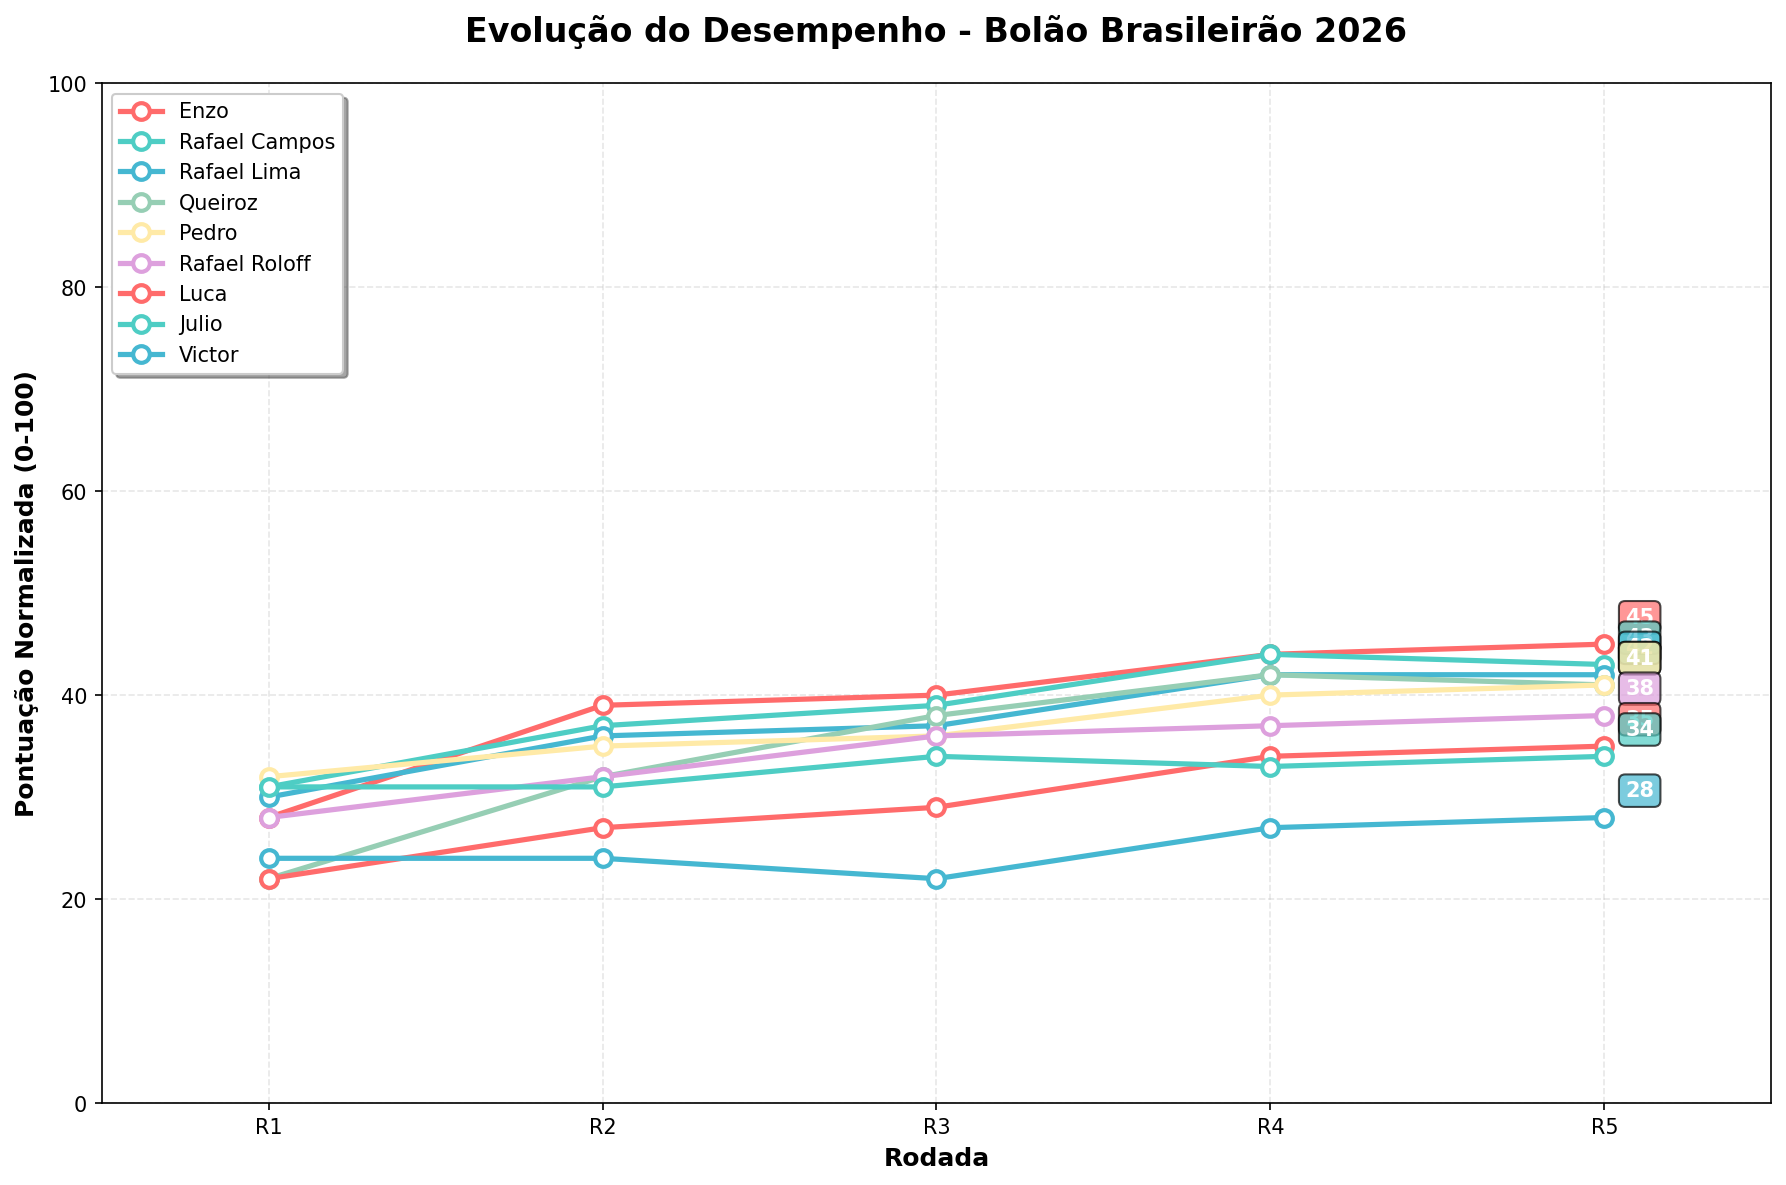
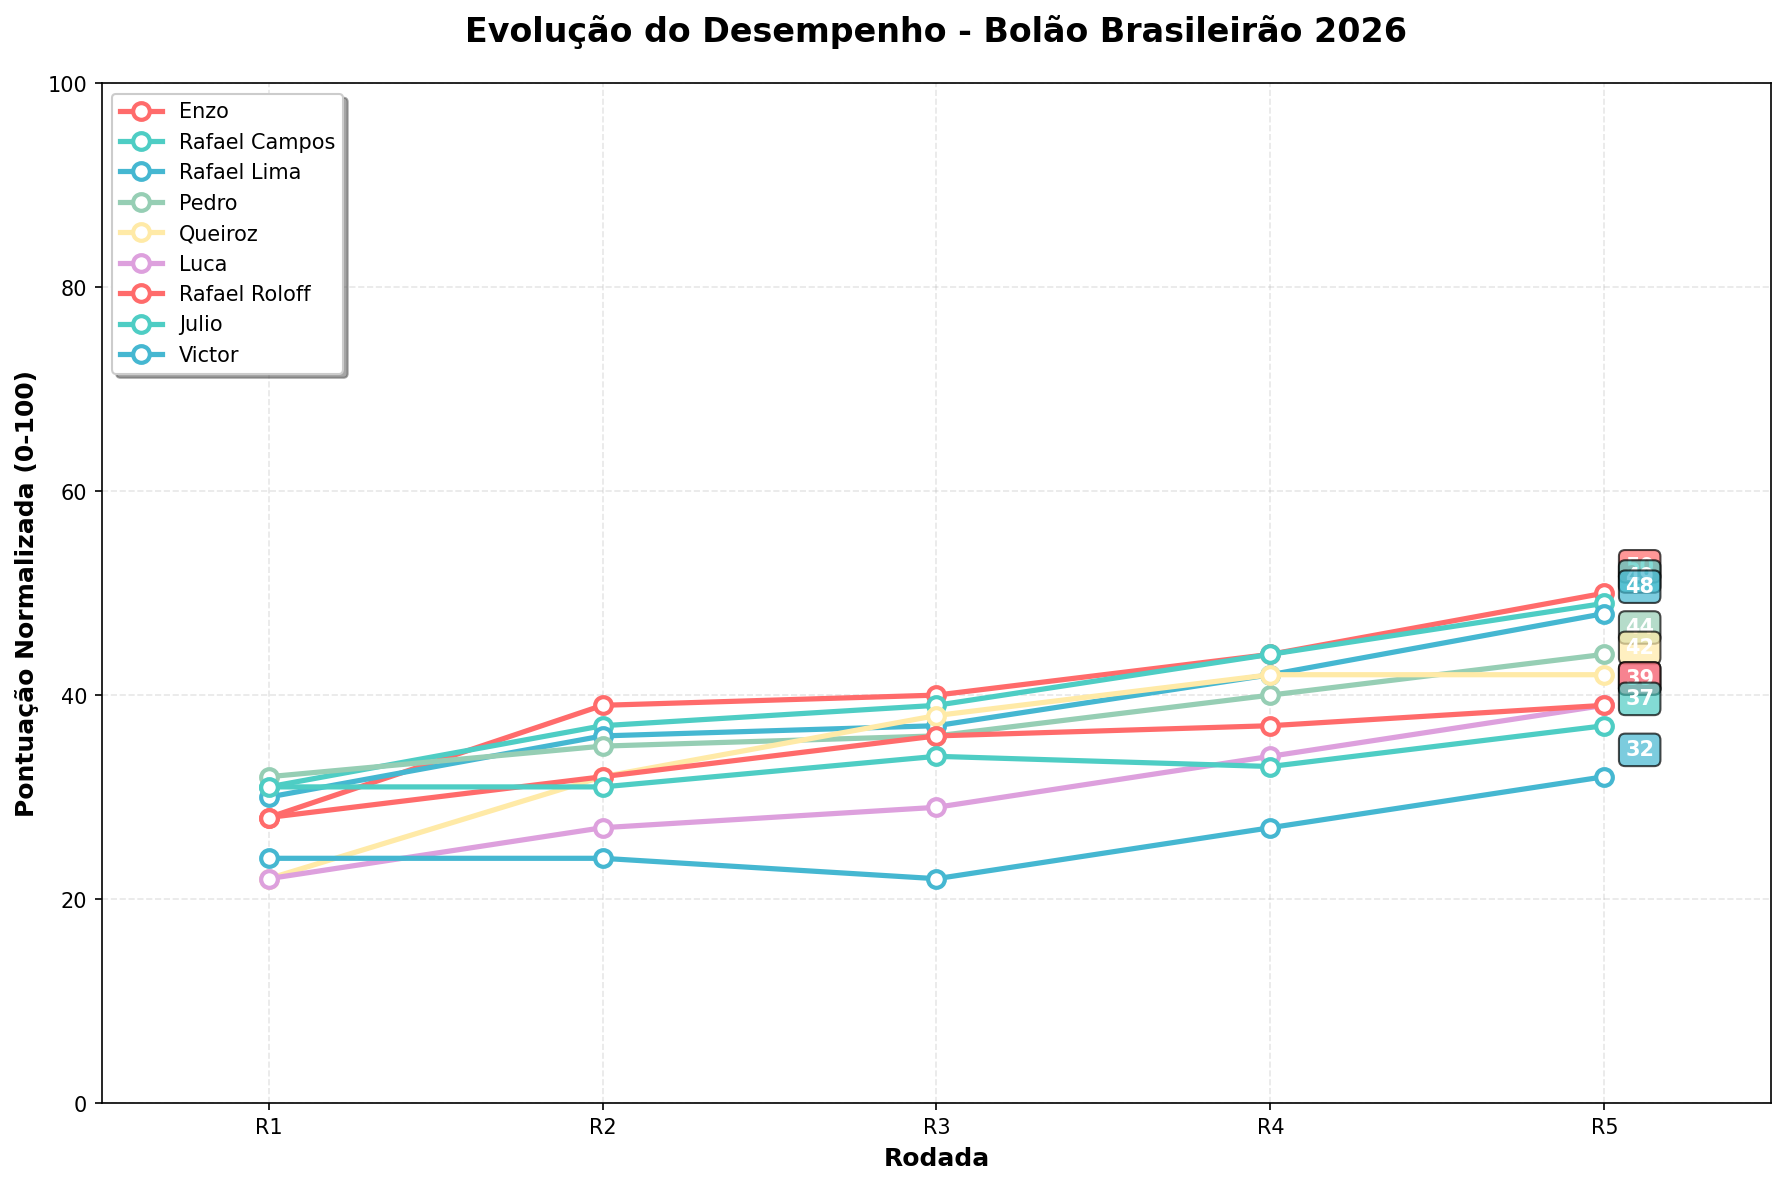
Atualizacao automatica - 13/03/2026 11:00:04,29

Changed region(s): [[0.154, 0.4684, 0.9546, 0.7181], [0.0924, 0.1561, 0.1848, 0.2498], [0.154, 0.7181, 0.2156, 0.7494]]

diff --git a/README.md b/README.md
@@ -2,66 +2,66 @@
 
 ## 🏆 Resultados Atuais
 
-**Última Atualização:** 2026-03-11 11:00:04
+**Última Atualização:** 2026-03-13 11:00:03
 
-| Time | Real | Enzo | Rafael Campos | Rafael Lima | Queiroz | Pedro | Rafael Roloff | Luca | Julio | Victor |
+| Time | Real | Enzo | Rafael Campos | Rafael Lima | Pedro | Queiroz | Luca | Rafael Roloff | Julio | Victor |
 |------|------|------|------|------|------|------|------|------|------|------|
-| Palmeiras | 1 | 2°(19p) | 3°(18p) | 3°(18p) | 3°(18p) | 3°(18p) | 2°(19p) | 3°(18p) | 2°(19p) | 3°(18p) |
-| São Paulo | 2 | 16°(6p) | 12°(10p) | 14°(8p) | 17°(5p) | 15°(7p) | 16°(6p) | 14°(8p) | 15°(7p) | 16°(6p) |
-| Corinthians | 3 | 8°(15p) | 8°(15p) | 9°(14p) | 6°(17p) | 8°(15p) | 5°(18p) | 10°(13p) | 9°(14p) | 8°(15p) |
-| Bahia | 4 | 5°(19p) | 4°(20p) | 4°(20p) | 4°(20p) | 7°(17p) | 6°(18p) | 5°(19p) | 5°(19p) | 9°(15p) |
-| Fluminense | 5 | 4°(19p) | 7°(18p) | 6°(19p) | 7°(18p) | 4°(19p) | 8°(17p) | 8°(17p) | 7°(18p) | 10°(15p) |
-| Atlético-PR | 6 | 17°(9p) | 17°(9p) | 17°(9p) | 15°(11p) | 18°(8p) | 17°(9p) | 17°(9p) | 17°(9p) | 13°(13p) |
-| Bragantino | 7 | 6°(19p) | 10°(17p) | 10°(17p) | 18°(9p) | 9°(18p) | 13°(14p) | 13°(14p) | 10°(17p) | 15°(12p) |
-| Grêmio | 8 | 7°(19p) | 6°(18p) | 7°(19p) | 5°(17p) | 6°(18p) | 12°(16p) | 6°(18p) | 18°(10p) | 4°(16p) |
-| Mirassol | 9 | 13°(16p) | 11°(18p) | 11°(18p) | 8°(19p) | 12°(17p) | 10°(19p) | 12°(17p) | 8°(19p) | 14°(15p) |
-| Chapecoense | 10 | 19°(11p) | 19°(11p) | 19°(11p) | 20°(10p) | 20°(10p) | 19°(11p) | 19°(11p) | 20°(10p) | 18°(12p) |
-| Santos | 11 | 11°(20p) | 13°(18p) | 12°(19p) | 13°(18p) | 11°(20p) | 9°(18p) | 7°(16p) | 12°(19p) | 11°(20p) |
-| Flamengo | 12 | 1°(9p) | 1°(9p) | 1°(9p) | 1°(9p) | 2°(10p) | 1°(9p) | 1°(9p) | 1°(9p) | 1°(9p) |
-| Coritiba | 13 | 15°(18p) | 16°(17p) | 16°(17p) | 12°(19p) | 19°(14p) | 14°(19p) | 20°(13p) | 19°(14p) | 20°(13p) |
-| Botafogo | 14 | 10°(16p) | 9°(15p) | 8°(14p) | 11°(17p) | 5°(11p) | 7°(13p) | 11°(17p) | 6°(12p) | 5°(11p) |
-| Vitória | 15 | 18°(17p) | 18°(17p) | 18°(17p) | 19°(16p) | 17°(18p) | 18°(17p) | 18°(17p) | 16°(19p) | 17°(18p) |
-| Remo | 16 | 20°(16p) | 20°(16p) | 20°(16p) | 16°(20p) | 16°(20p) | 20°(16p) | 16°(20p) | 13°(17p) | 19°(17p) |
-| Atlético-MG | 17 | 12°(15p) | 5°(8p) | 5°(8p) | 9°(12p) | 13°(16p) | 4°(7p) | 4°(7p) | 4°(7p) | 2°(5p) |
-| Internacional | 18 | 14°(16p) | 15°(17p) | 13°(15p) | 14°(16p) | 14°(16p) | 15°(17p) | 15°(17p) | 14°(16p) | 6°(8p) |
-| Cruzeiro | 19 | 3°(4p) | 2°(3p) | 2°(3p) | 2°(3p) | 1°(2p) | 3°(4p) | 2°(3p) | 3°(4p) | 7°(8p) |
-| Vasco | 20 | 9°(9p) | 14°(14p) | 15°(15p) | 10°(10p) | 10°(10p) | 11°(11p) | 9°(9p) | 11°(11p) | 12°(12p) |
-| **TOTAL** | | **292** | **288** | **286** | **284** | **284** | **278** | **272** | **270** | **258** |
+| São Paulo | 1 | 16°(5p) | 12°(9p) | 14°(7p) | 15°(6p) | 17°(4p) | 14°(7p) | 16°(5p) | 15°(6p) | 16°(5p) |
+| Palmeiras | 2 | 2°(20p) | 3°(19p) | 3°(19p) | 3°(19p) | 3°(19p) | 3°(19p) | 2°(20p) | 2°(20p) | 3°(19p) |
+| Fluminense | 3 | 4°(19p) | 7°(16p) | 6°(17p) | 4°(19p) | 7°(16p) | 8°(15p) | 8°(15p) | 7°(16p) | 10°(13p) |
+| Bahia | 4 | 5°(19p) | 4°(20p) | 4°(20p) | 7°(17p) | 4°(20p) | 5°(19p) | 6°(18p) | 5°(19p) | 9°(15p) |
+| Bragantino | 5 | 6°(19p) | 10°(15p) | 10°(15p) | 9°(16p) | 18°(7p) | 13°(12p) | 13°(12p) | 10°(15p) | 15°(10p) |
+| Flamengo | 6 | 1°(15p) | 1°(15p) | 1°(15p) | 2°(16p) | 1°(15p) | 1°(15p) | 1°(15p) | 1°(15p) | 1°(15p) |
+| Coritiba | 7 | 15°(12p) | 16°(11p) | 16°(11p) | 19°(8p) | 12°(15p) | 20°(7p) | 14°(13p) | 19°(8p) | 20°(7p) |
+| Atlético-PR | 8 | 17°(11p) | 17°(11p) | 17°(11p) | 18°(10p) | 15°(13p) | 17°(11p) | 17°(11p) | 17°(11p) | 13°(15p) |
+| Grêmio | 9 | 7°(18p) | 6°(17p) | 7°(18p) | 6°(17p) | 5°(16p) | 6°(17p) | 12°(17p) | 18°(11p) | 4°(15p) |
+| Corinthians | 10 | 8°(18p) | 8°(18p) | 9°(19p) | 8°(18p) | 6°(16p) | 10°(20p) | 5°(15p) | 9°(19p) | 8°(18p) |
+| Mirassol | 11 | 13°(18p) | 11°(20p) | 11°(20p) | 12°(19p) | 8°(17p) | 12°(19p) | 10°(19p) | 8°(17p) | 14°(17p) |
+| Chapecoense | 12 | 19°(13p) | 19°(13p) | 19°(13p) | 20°(12p) | 20°(12p) | 19°(13p) | 19°(13p) | 20°(12p) | 18°(14p) |
+| Atlético-MG | 13 | 12°(19p) | 5°(12p) | 5°(12p) | 13°(20p) | 9°(16p) | 4°(11p) | 4°(11p) | 4°(11p) | 2°(9p) |
+| Santos | 14 | 11°(17p) | 13°(19p) | 12°(18p) | 11°(17p) | 13°(19p) | 7°(13p) | 9°(15p) | 12°(18p) | 11°(17p) |
+| Vasco | 15 | 9°(14p) | 14°(19p) | 15°(20p) | 10°(15p) | 10°(15p) | 9°(14p) | 11°(16p) | 11°(16p) | 12°(17p) |
+| Vitória | 16 | 18°(18p) | 18°(18p) | 18°(18p) | 17°(19p) | 19°(17p) | 18°(18p) | 18°(18p) | 16°(20p) | 17°(19p) |
+| Botafogo | 17 | 10°(13p) | 9°(12p) | 8°(11p) | 5°(8p) | 11°(14p) | 11°(14p) | 7°(10p) | 6°(9p) | 5°(8p) |
+| Remo | 18 | 20°(18p) | 20°(18p) | 20°(18p) | 16°(18p) | 16°(18p) | 16°(18p) | 20°(18p) | 13°(15p) | 19°(19p) |
+| Internacional | 19 | 14°(15p) | 15°(16p) | 13°(14p) | 14°(15p) | 14°(15p) | 15°(16p) | 15°(16p) | 14°(15p) | 6°(7p) |
+| Cruzeiro | 20 | 3°(3p) | 2°(2p) | 2°(2p) | 1°(1p) | 2°(2p) | 2°(2p) | 3°(3p) | 3°(3p) | 7°(7p) |
+| **TOTAL** | | **304** | **300** | **298** | **290** | **286** | **280** | **280** | **276** | **266** |
 
 ### 🏅 Classificação Atual (pontuação normalizada 0-100)
 
-🥇 **Enzo**: 45 pontos<br>
-🥈 **Rafael Campos**: 43 pontos<br>
-🥉 **Rafael Lima**: 42 pontos<br>
-4. **Queiroz**: 41 pontos<br>
-5. **Pedro**: 41 pontos<br>
-6. **Rafael Roloff**: 38 pontos<br>
-7. **Luca**: 35 pontos<br>
-8. **Julio**: 34 pontos<br>
-9. **Victor**: 28 pontos<br>
+🥇 **Enzo**: 50 pontos<br>
+🥈 **Rafael Campos**: 49 pontos<br>
+🥉 **Rafael Lima**: 48 pontos<br>
+4. **Pedro**: 44 pontos<br>
+5. **Queiroz**: 42 pontos<br>
+6. **Luca**: 39 pontos<br>
+7. **Rafael Roloff**: 39 pontos<br>
+8. **Julio**: 37 pontos<br>
+9. **Victor**: 32 pontos<br>
 
 ### 📈 Histórico de Desempenho
 
 ![Gráfico de Performance](performance_chart.png)
 
-| Rodada | Enzo | Rafael Campos | Rafael Lima | Queiroz | Pedro | Rafael Roloff | Luca | Julio | Victor |
+| Rodada | Enzo | Rafael Campos | Rafael Lima | Pedro | Queiroz | Luca | Rafael Roloff | Julio | Victor |
 |-------|-------|-------|-------|-------|-------|-------|-------|-------|-------|
-| R1 | 28 | 31 | 30 | 22 | 32 | 28 | 22 | 31 | 24 |
-| R2 | 39 | 37 | 36 | 32 | 35 | 32 | 27 | 31 | 24 |
-| R3 | 40 | 39 | 37 | 38 | 36 | 36 | 29 | 34 | 22 |
-| R4 | 44 | 44 | 42 | 42 | 40 | 37 | 34 | 33 | 27 |
-| R5 | 45 | 43 | 42 | 41 | 41 | 38 | 35 | 34 | 28 |
+| R1 | 28 | 31 | 30 | 32 | 22 | 22 | 28 | 31 | 24 |
+| R2 | 39 | 37 | 36 | 35 | 32 | 27 | 32 | 31 | 24 |
+| R3 | 40 | 39 | 37 | 36 | 38 | 29 | 36 | 34 | 22 |
+| R4 | 44 | 44 | 42 | 40 | 42 | 34 | 37 | 33 | 27 |
+| R5 | 50 | 49 | 48 | 44 | 42 | 39 | 39 | 37 | 32 |
 
 **Tendência (últimas 2 medições):**
-- **Enzo**: 📈 +1
-- **Rafael Campos**: 📉 -1
-- **Rafael Lima**: ➡ =0
-- **Queiroz**: 📉 -1
-- **Pedro**: 📈 +1
-- **Rafael Roloff**: 📈 +1
-- **Luca**: 📈 +1
-- **Julio**: 📈 +1
-- **Victor**: 📈 +1
+- **Enzo**: 📈 +6
+- **Rafael Campos**: 📈 +5
+- **Rafael Lima**: 📈 +6
+- **Pedro**: 📈 +4
+- **Queiroz**: ➡ =0
+- **Luca**: 📈 +5
+- **Rafael Roloff**: 📈 +2
+- **Julio**: 📈 +4
+- **Victor**: 📈 +5
 
 ## 🎯 Sistema de Pontuação
 
